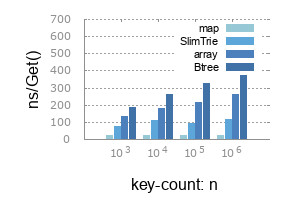
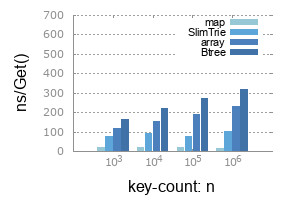
doc: slimtrie: update report stat

diff --git a/trie/report/bench_msab_present.md b/trie/report/bench_msab_present.md
@@ -1,6 +1,6 @@
 | key-count | map | SlimTrie | array | Btree |
 |-----------|-----|----------|-------|-------|
-|      1000 |  16 |       69 |   128 |   183 |
-|     10000 |  16 |      107 |   173 |   256 |
-|    100000 |  18 |       90 |   212 |   322 |
-|   1000000 |  17 |      109 |   259 |   369 |
+|      1000 |  13 |       73 |   113 |   157 |
+|     10000 |  13 |       87 |   150 |   216 |
+|    100000 |  13 |       71 |   183 |   267 |
+|   1000000 |  12 |       97 |   227 |   314 |

diff --git a/trie/report/bench_get_absent.md b/trie/report/bench_get_absent.md
@@ -1,6 +1,6 @@
 | key-count | k=64 | k=128 | k=256 |
 |-----------|------|-------|-------|
-|      1000 |   83 |    71 |    95 |
-|     10000 |  112 |    89 |    97 |
-|    100000 |   87 |   125 |    79 |
-|   1000000 |  117 |   126 |   138 |
+|      1000 |   41 |    68 |    62 |
+|     10000 |   72 |    74 |    71 |
+|    100000 |   78 |    74 |    69 |
+|   1000000 |   96 |    87 |    93 |

diff --git a/trie/report/bench_get_present.md b/trie/report/bench_get_present.md
@@ -1,6 +1,6 @@
 | key-count | k=64 | k=128 | k=256 |
 |-----------|------|-------|-------|
-|      1000 |   79 |    74 |    76 |
-|     10000 |   94 |    96 |    99 |
-|    100000 |   78 |    80 |    77 |
-|   1000000 |  101 |   115 |   104 |
+|      1000 |   63 |    65 |    58 |
+|     10000 |   85 |    79 |    73 |
+|    100000 |   80 |    68 |    70 |
+|   1000000 |   91 |    99 |   103 |

diff --git a/trie/report/mem_usage.md b/trie/report/mem_usage.md
@@ -1,6 +1,6 @@
 | key-count | k=64 | k=128 | k=256 |
 |-----------|------|-------|-------|
-|      1000 |   18 |    20 |    18 |
+|      1000 |   16 |    16 |    18 |
 |     10000 |   11 |    11 |    11 |
-|    100000 |    9 |    11 |    14 |
+|    100000 |   11 |    11 |    13 |
 |   1000000 |   11 |    11 |    11 |

diff --git a/trie/report/fpr_get.md b/trie/report/fpr_get.md
@@ -1,6 +1,6 @@
 | key-count |  fpr   |
 |-----------|--------|
-|      1000 | 0.029% |
-|     10000 | 0.023% |
+|      1000 | 0.021% |
+|     10000 | 0.026% |
 |    100000 | 0.000% |
 |   1000000 | 0.000% |
